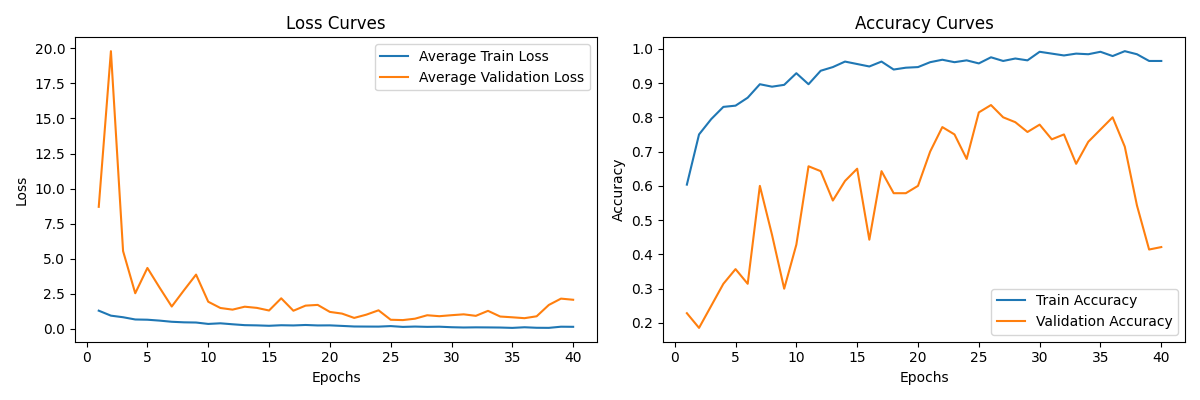
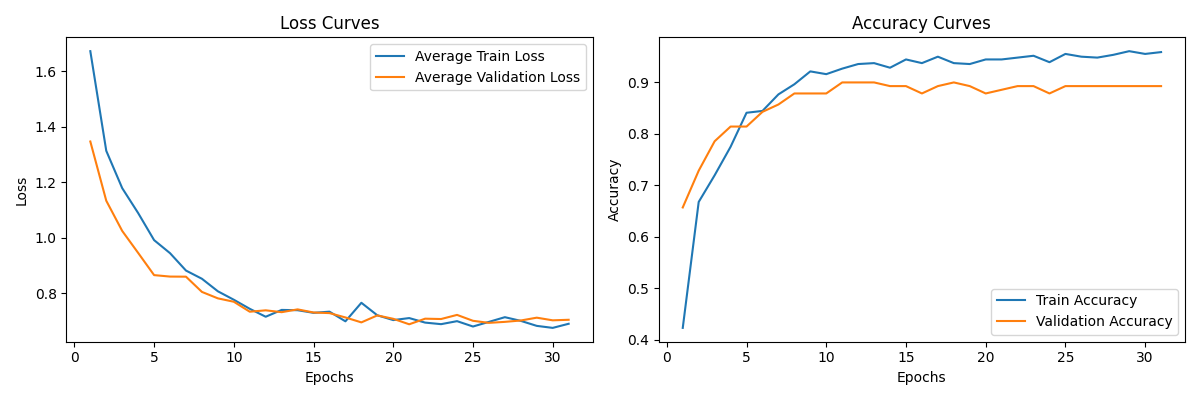
Update

diff --git a/src/handetect/app.py b/src/handetect/app.py
@@ -1,5 +1,9 @@
 import gradio as gr
 import predict as predict
+from googletrans import Translator, constants
+from pprint import pprint
+
+translator = Translator()
 
 
 def upload_file(files):
@@ -29,11 +33,19 @@ def process_file(webcam_filepath, upload_filepath):
         return result
 
 
+def generate_description(request: gr.Request):
+    translation = translator.translate(
+        "SqueezeNet-Based Deep Learning for Early Detection of Movement Disorders via Handwriting Assessment",
+        dest=str(request.request.headers["Accept-Language"].split(",")[0].lower()[0:2]),
+    )
+    return translation.text
+
+
 demo = gr.Interface(
     theme="gradio/soft",
     fn=process_file,
     title="HANDETECT",
-    description="An innovative AI-powered system that facilitates early detection and monitoring of movement disorders through handwriting assessment",
+    description=generate_description,
     inputs=[
         gr.components.Image(type="filepath", label="Choose Image", source="upload"),
     ],

diff --git a/src/handetect/configs.py b/src/handetect/configs.py
@@ -14,11 +14,11 @@ from torchvision.models import squeezenet1_0
 
 # Constants
 RANDOM_SEED = 123
-BATCH_SIZE = 32
+BATCH_SIZE = 16
 NUM_EPOCHS = 40
-LEARNING_RATE = 0.005873024218838728
+LEARNING_RATE = 5.488903014780378e-05
 STEP_SIZE = 10
-GAMMA = 0.9
+GAMMA = 0.3
 DEVICE = torch.device("cuda:0" if torch.cuda.is_available() else "cpu")
 NUM_PRINT = 100
 TASK = 1
@@ -37,7 +37,7 @@ CLASSES = [
     "Huntington Disease",
     "Parkinson Disease",
 ]
-MODEL_SAVE_PATH = "output/checkpoints/model.pth"
+MODEL_SAVE_PATH = r"output/checkpoints/model.pth"
 
 
 class SqueezeNet1_0WithDropout(nn.Module):

diff --git a/src/handetect/augment.py b/src/handetect/augment.py
@@ -46,6 +46,7 @@ for task in ["1"]:
             p.random_brightness(probability=0.8, min_factor=0.5, max_factor=1.5)
             p.random_contrast(probability=0.8, min_factor=0.5, max_factor=1.5)
             p.random_color(probability=0.8, min_factor=0.5, max_factor=1.5)
+            p.rotate_random_90(probability=0.8)
             # Generate 100 - total of original images so that the total number of images in each class is 100
             p.sample(100 - len(p.augmentor_images))
             # Move the folder to data/train/Task 1/augmented

diff --git a/src/handetect/train.py b/src/handetect/train.py
@@ -155,9 +155,6 @@ def main_training_loop():
             )
             break
 
-    # Save the model
-    MODEL_SAVE_PATH = "output/checkpoints/model.pth"
-
     # Ensure the parent directory exists
     os.makedirs(os.path.dirname(MODEL_SAVE_PATH), exist_ok=True)
     torch.save(model.state_dict(), MODEL_SAVE_PATH)
